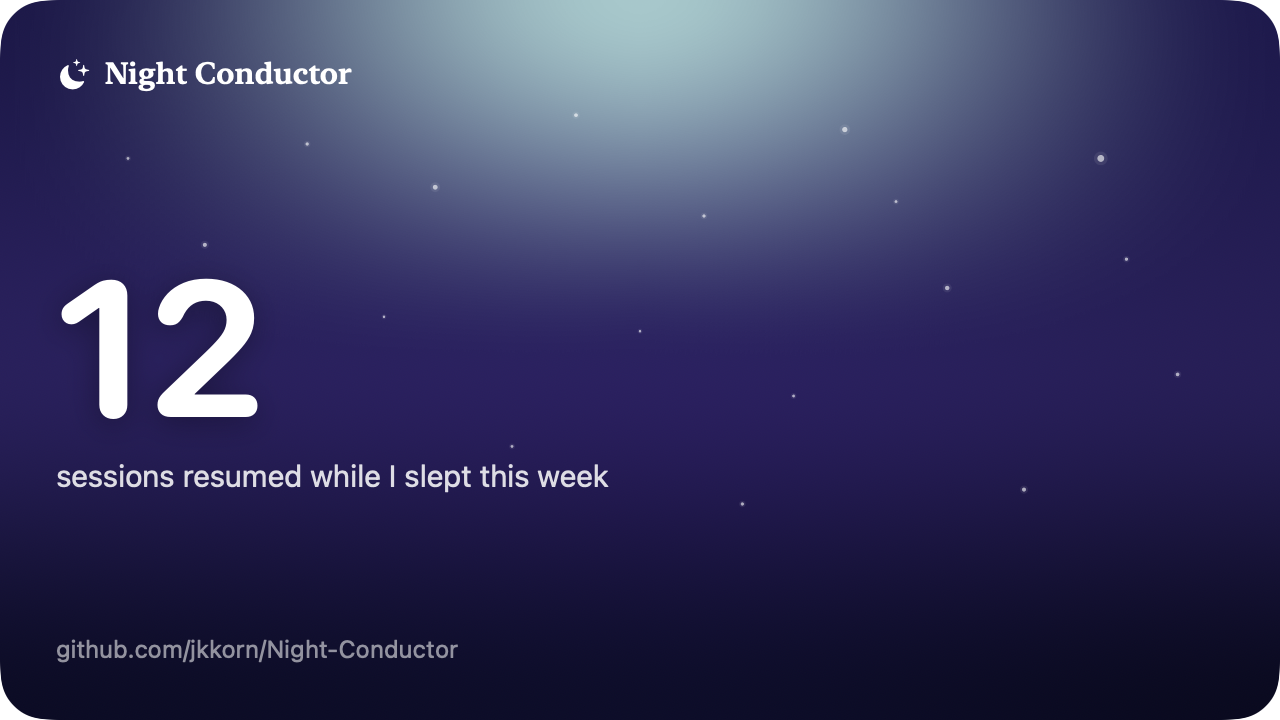
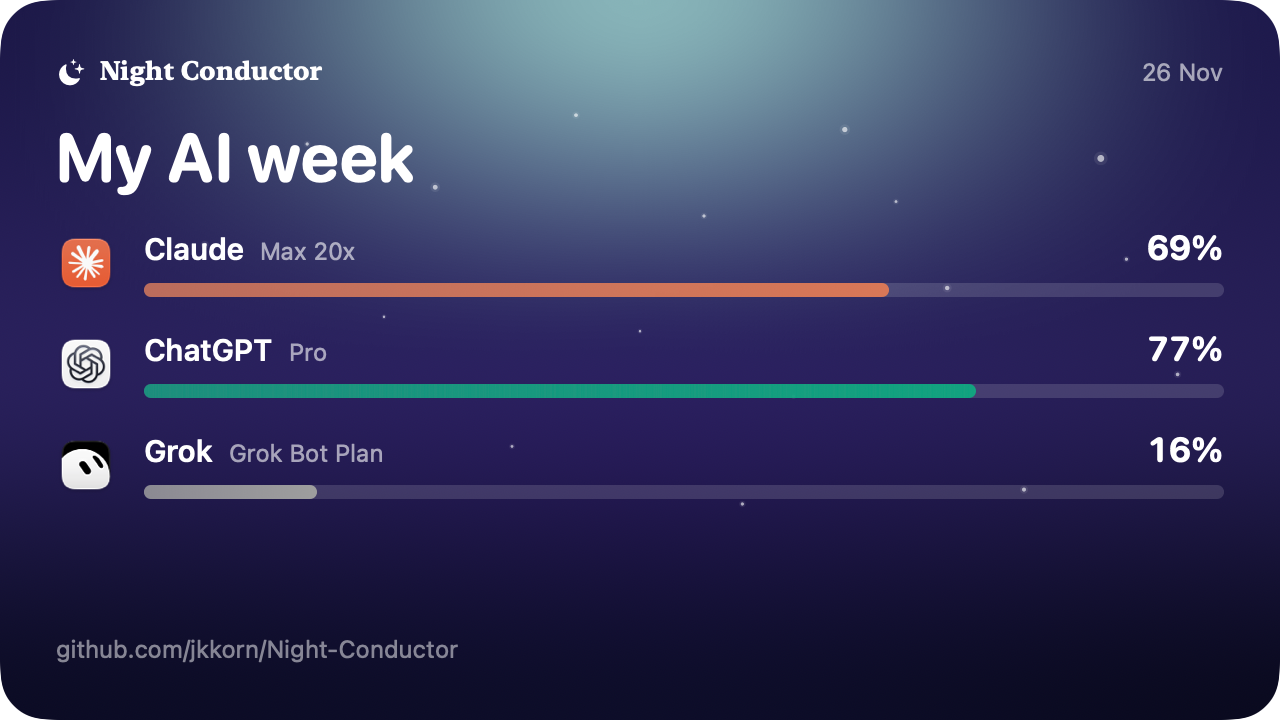
feat: share card shows "My AI week" (usage per subscription)
The card shared "N sessions resumed while I slept", a night-watch number
that no longer reflects the product. It now shows each subscription's
weekly usage with its bar. Only numbers and plan names, no titles.
Readings from a window that reset since are left off, not shown as 0%.
Fix: system app icons are flattened to bitmaps first; handing ImageRenderer
the layered icon washed out the whole image.

diff --git a/NightConductor/Sources/NightConductor/StatCard.swift b/NightConductor/Sources/NightConductor/StatCard.swift
@@ -1,50 +1,121 @@
 import AppKit
 import SwiftUI
 
-/// A shareable "this week" card — a big number on the living night sky.
-/// Rendered to an image the user can drop into a post.
+/// A shareable "My AI week" card: each subscription's share of its weekly
+/// allowance, on the night sky. Rendered to an image the user can post.
+/// Only numbers and plan names: no session titles, nothing from prompts.
 struct StatCard: View {
-    let weekCount: Int
+    let providers: [ProviderUsage]
+    var asOf: Date = Date()
+
+    /// Readings we actually have. A window that reset since its last reading
+    /// is unknown, so it's left off rather than shown as 0%.
+    private var shown: [ProviderUsage] { providers.filter { !$0.isResetSinceReading } }
 
     var body: some View {
-        ZStack(alignment: .leading) {
+        ZStack(alignment: .topLeading) {
             NightSkyView(armed: true, animated: false)
             VStack(alignment: .leading, spacing: 0) {
                 HStack(spacing: 8) {
-                    Image(systemName: "moon.stars.fill").font(.title3).foregroundStyle(.white)
-                    Text("Night Conductor")
-                        .font(.system(.title3, design: .serif).weight(.semibold))
+                    Image(systemName: "moon.stars.fill").foregroundStyle(.white)
+                    Text("Night Conductor").font(.system(.headline, design: .serif))
                         .foregroundStyle(.white)
                     Spacer()
+                    Text(asOf.formatted(.dateTime.month(.abbreviated).day()))
+                        .font(.callout).foregroundStyle(.white.opacity(0.6))
                 }
-                Spacer()
-                Text("\(weekCount)")
-                    .font(.system(size: 96, weight: .bold, design: .rounded))
+                Text("My AI week")
+                    .font(.system(size: 34, weight: .bold, design: .rounded))
                     .foregroundStyle(.white)
-                    .shadow(color: .black.opacity(0.3), radius: 8, y: 2)
-                Text(weekCount == 1
-                     ? "session resumed while I slept this week"
-                     : "sessions resumed while I slept this week")
-                    .font(.title3)
-                    .foregroundStyle(.white.opacity(0.85))
-                Spacer()
+                    .padding(.top, 14).padding(.bottom, 16)
+                if shown.isEmpty {
+                    Text("No usage readings yet").font(.title3).foregroundStyle(.white.opacity(0.8))
+                } else {
+                    VStack(spacing: 16) {
+                        ForEach(shown) { StatCardRow(usage: $0) }
+                    }
+                }
+                Spacer(minLength: 12)
                 Text("github.com/jkkorn/Night-Conductor")
-                    .font(.callout)
-                    .foregroundStyle(.white.opacity(0.55))
+                    .font(.callout).foregroundStyle(.white.opacity(0.5))
             }
             .padding(28)
         }
         .frame(width: 640, height: 360)
-        .clipShape(RoundedRectangle(cornerRadius: 24, style: .continuous))
+        .clipShape(RoundedRectangle(cornerRadius: 24))
         .environment(\.colorScheme, .dark)
+        .environment(\.isStillRender, true)   // bars at their value, no entrance
+    }
+}
+
+private struct StatCardRow: View {
+    let usage: ProviderUsage
+
+    /// The app icon drawn into a plain bitmap first. Handing ImageRenderer the
+    /// system's layered icon washes out the entire card.
+    static func flatIcon(_ provider: ProviderID, points: CGFloat) -> CGImage? {
+        guard let icon = ProviderBrand.icon(provider) else { return nil }
+        let pixels = Int(points * 2)
+        guard let rep = NSBitmapImageRep(bitmapDataPlanes: nil, pixelsWide: pixels, pixelsHigh: pixels,
+                                         bitsPerSample: 8, samplesPerPixel: 4, hasAlpha: true, isPlanar: false,
+                                         colorSpaceName: .deviceRGB, bytesPerRow: 0, bitsPerPixel: 0),
+              let context = NSGraphicsContext(bitmapImageRep: rep)
+        else { return nil }
+        NSGraphicsContext.saveGraphicsState()
+        NSGraphicsContext.current = context
+        icon.draw(in: NSRect(x: 0, y: 0, width: pixels, height: pixels))
+        NSGraphicsContext.restoreGraphicsState()
+        return rep.cgImage
+    }
+
+    var body: some View {
+        HStack(spacing: 14) {
+            if let icon = Self.flatIcon(usage.provider, points: 30) {
+                Image(decorative: icon, scale: 2).resizable().frame(width: 30, height: 30)
+            } else {
+                ProviderIcon(provider: usage.provider, size: 30)
+            }
+            VStack(alignment: .leading, spacing: 7) {
+                HStack(alignment: .firstTextBaseline) {
+                    Text(usage.provider.displayName).font(.title3).bold().foregroundStyle(.white)
+                    if let plan = usage.plan {
+                        Text(plan).font(.callout).foregroundStyle(.white.opacity(0.6))
+                    }
+                    Spacer()
+                    Text("\(Int(usage.weekly.utilization.rounded()))%")
+                        .font(.system(.title2, design: .rounded)).bold().monospacedDigit()
+                        .foregroundStyle(.white)
+                }
+                StatCardBar(value: usage.weekly.utilization, tint: ProviderBrand.accent(usage.provider))
+            }
+        }
+    }
+}
+
+/// A flat bar for the still image. (GlowBar's blur shadow washes out the
+/// whole picture when ImageRenderer flattens it.)
+private struct StatCardBar: View {
+    let value: Double
+    let tint: Color
+
+    var body: some View {
+        GeometryReader { geo in
+            ZStack(alignment: .leading) {
+                Capsule().fill(.white.opacity(0.14))
+                Capsule()
+                    .fill(LinearGradient(colors: [tint.opacity(0.8), tint], startPoint: .leading, endPoint: .trailing))
+                    .frame(width: max(7, geo.size.width * min(max(value, 0), 100) / 100))
+            }
+        }
+        .frame(height: 7)
     }
 }
 
 @MainActor
 enum StatCardExporter {
     @discardableResult
-    static func render(count: Int, to url: URL) -> Bool {
-        let renderer = ImageRenderer(content: StatCard(weekCount: count))
+    static func render(providers: [ProviderUsage], asOf: Date = Date(), to url: URL) -> Bool {
+        let renderer = ImageRenderer(content: StatCard(providers: providers, asOf: asOf))
         renderer.scale = 2
         guard let image = renderer.nsImage,
               let tiff = image.tiffRepresentation,
@@ -54,12 +125,11 @@ enum StatCardExporter {
         return (try? png.write(to: url)) != nil
     }
 
-    /// Render the user's real weekly count to ~/Downloads and reveal it.
-    static func share() {
-        let count = ResumeHistory.weekCount()
+    /// Render this week's real usage to ~/Downloads and reveal it.
+    static func share(providers: [ProviderUsage]) {
         let url = FileManager.default.homeDirectoryForCurrentUser
-            .appendingPathComponent("Downloads/NightConductor-this-week.png")
-        if render(count: count, to: url) {
+            .appendingPathComponent("Downloads/NightConductor-my-ai-week.png")
+        if render(providers: providers, to: url) {
             NSWorkspace.shared.activateFileViewerSelecting([url])
         }
     }

diff --git a/NightConductor/Sources/NightConductor/Screenshot.swift b/NightConductor/Sources/NightConductor/Screenshot.swift
@@ -112,6 +112,18 @@ enum Screenshotter {
         print("Wrote \(path)")
     }
 
+    /// Demo readings for the share card render (never real account data).
+    static func demoProviders(now: Date = Date()) -> [ProviderUsage] {
+        [
+            ProviderUsage(provider: .claude, source: "Claude Code", plan: "Max 20x",
+                          weekly: UsageWindow(utilization: 69, resetsAt: now.addingTimeInterval(86_400)), readAt: now),
+            ProviderUsage(provider: .chatgpt, source: "ChatGPT account", plan: "Pro",
+                          weekly: UsageWindow(utilization: 77, resetsAt: now.addingTimeInterval(4 * 86_400)), readAt: now),
+            ProviderUsage(provider: .grok, source: "Grok Bot", plan: "Grok Bot Plan",
+                          weekly: UsageWindow(utilization: 16, resetsAt: now.addingTimeInterval(5 * 86_400)), readAt: now),
+        ]
+    }
+
     private static func demoState(_ name: String = "default") -> AppState {
         // Per-state knobs so we can audit every visual state as a still.
         let armed = name != "paused"

diff --git a/NightConductor/Sources/NightConductor/NightConductorApp.swift b/NightConductor/Sources/NightConductor/NightConductorApp.swift
@@ -32,11 +32,12 @@ enum Main {
             MainActor.assumeIsolated { Screenshotter.renderMenuBar(to: args[flagIndex + 1]) }
             return
         }
-        if let flagIndex = args.firstIndex(of: "--render-statcard"), args.count > flagIndex + 2 {
-            let count = Int(args[flagIndex + 1]) ?? 12
+        if let flagIndex = args.firstIndex(of: "--render-statcard"), args.count > flagIndex + 1 {
+            // Demo numbers only, for docs: NightConductor --render-statcard out.png
             MainActor.assumeIsolated {
                 NightSkyView.hourOverride = 23
-                _ = StatCardExporter.render(count: count, to: URL(fileURLWithPath: args[flagIndex + 2]))
+                _ = StatCardExporter.render(providers: Screenshotter.demoProviders(),
+                                            to: URL(fileURLWithPath: args[flagIndex + 1]))
             }
             return
         }

diff --git a/NightConductor/Sources/NightConductor/MenuView.swift b/NightConductor/Sources/NightConductor/MenuView.swift
@@ -596,9 +596,10 @@ struct AboutSection: View {
     var body: some View {
         VStack(spacing: Design.s) {
             HStack {
-                Button("Share this week\u{2019}s stats", systemImage: "square.and.arrow.up") {
-                    StatCardExporter.share()
+                Button("Share my AI week", systemImage: "square.and.arrow.up") {
+                    StatCardExporter.share(providers: state.providers)
                 }
+                .disabled(state.providers.allSatisfy(\.isResetSinceReading))
                 Button(historyCleared ? "History cleared" : "Clear history",
                        systemImage: historyCleared ? "checkmark" : "trash") {
                     state.clearLocalHistory()

diff --git a/README.md b/README.md
@@ -160,7 +160,7 @@ When the window closes, Night Conductor posts a one-line notification ("Resumed
 can drop straight into a post.
 
 <p align="center">
-  <img src="docs/stat-card.png" width="420" alt="Weekly stat card">
+  <img src="docs/stat-card.png" width="420" alt="My AI week share card: weekly usage across Claude, ChatGPT and Grok">
 </p>
 
 ## Raycast extension and CLI
